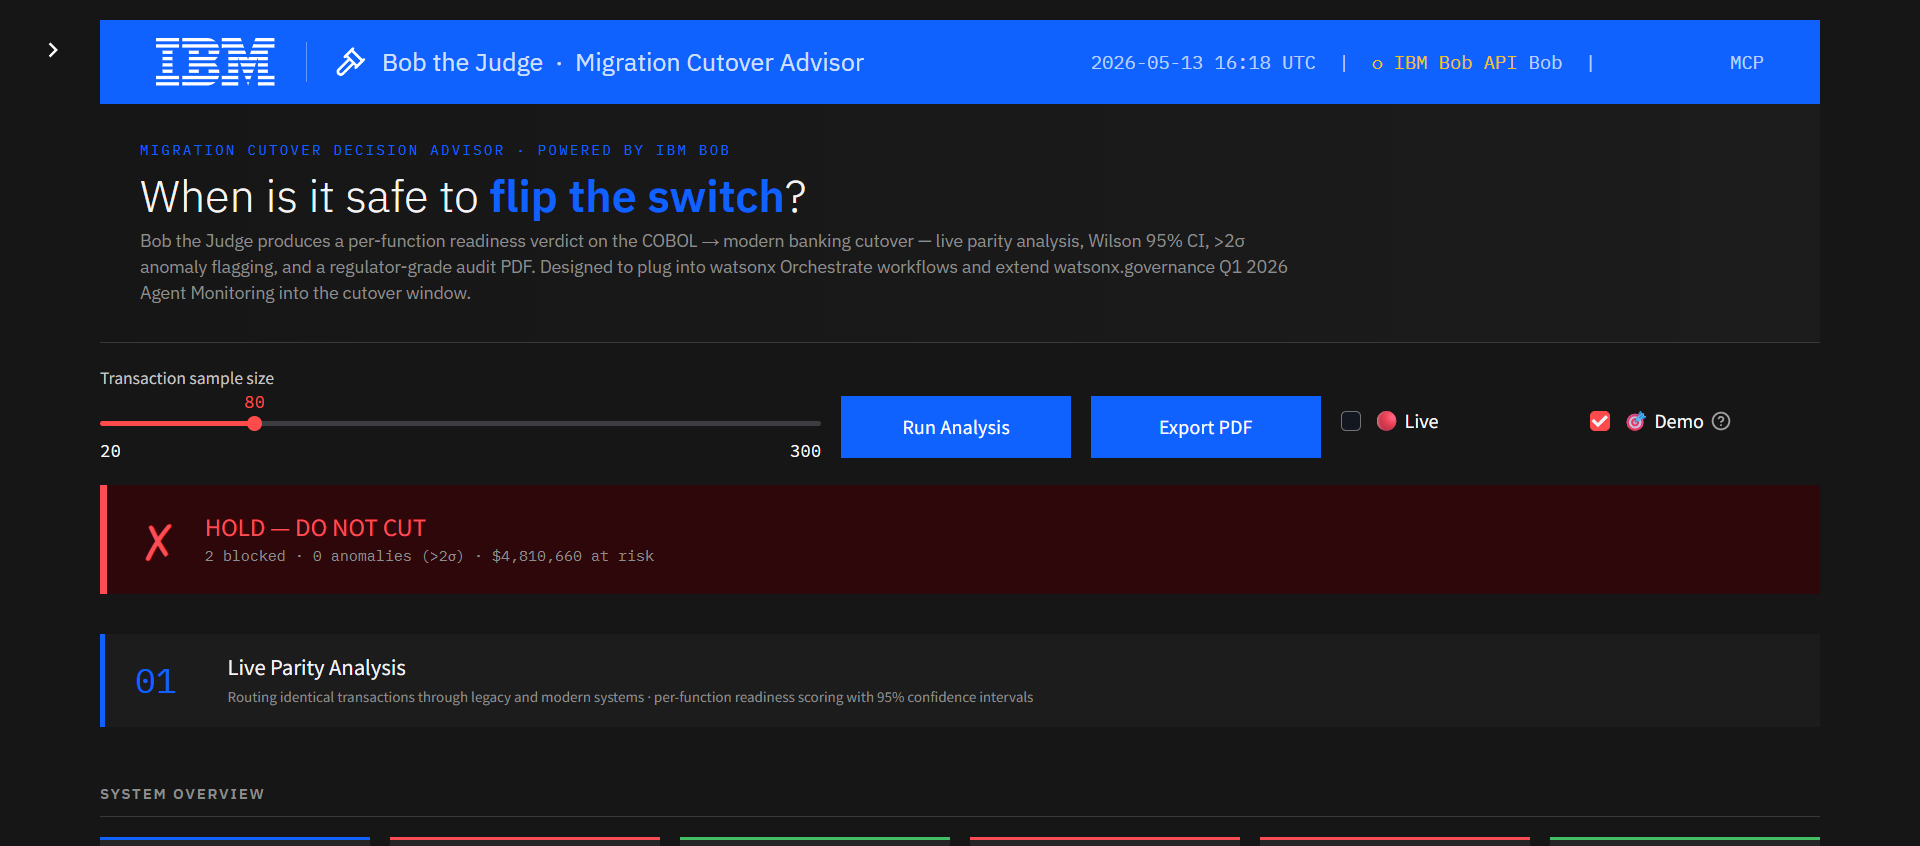
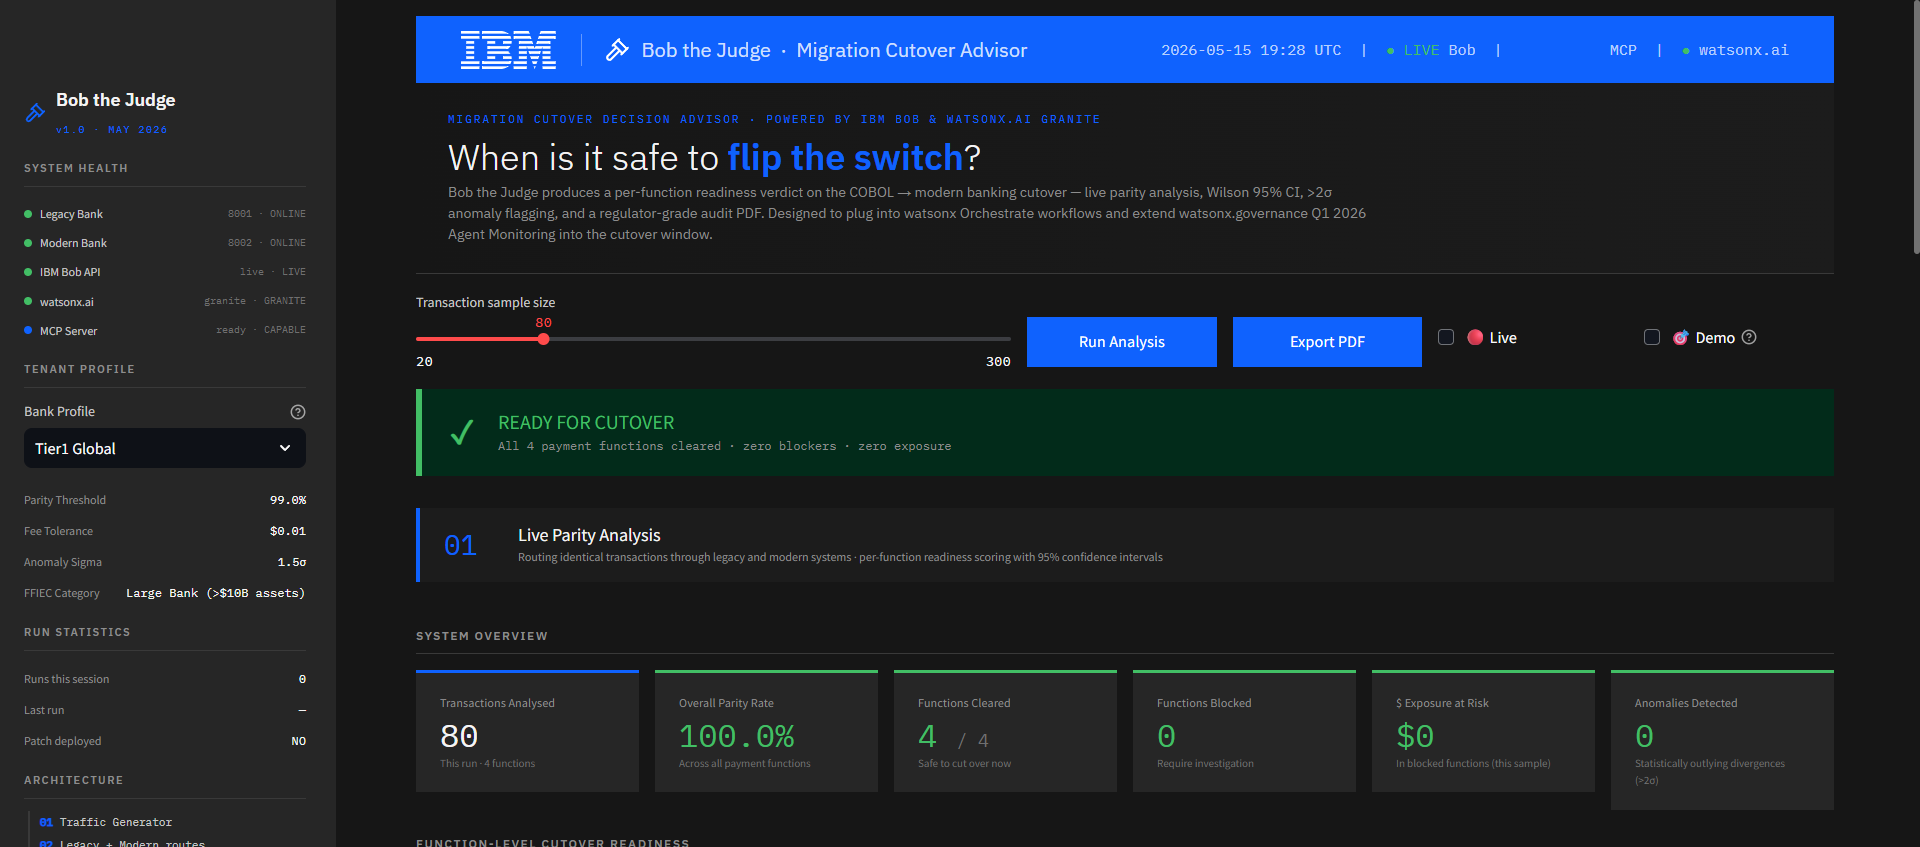
docs: refresh screenshots with watsonx.ai indicators + live Granite response

diff --git a/README.md b/README.md
@@ -15,16 +15,13 @@ End-to-end IBM stack: **IBM Bob** as the development partner (5 task sessions in
 ## Screenshots
 
 ![Hero — Dashboard ready](docs/screenshots/01-hero.png)
-*IBM Carbon Design System dashboard — IBM logo in topbar, sidebar system health, hero band.*
+*IBM Carbon Design System dashboard — topbar shows `● LIVE Bob | ● watsonx.ai`, sidebar lists IBM Bob API + watsonx.ai (Granite) + MCP Server health, plus the Tenant Profile selector (4 reference bank tiers).*
 
-![Results — HOLD: DO NOT CUT](docs/screenshots/02-results.png)
-*Live parity analysis: 2 functions blocked, $4.8M at risk. Decision banner shows HOLD — DO NOT CUT.*
+![Results — READY FOR CUTOVER with tenant-calibrated thresholds](docs/screenshots/02-results.png)
+*Live parity analysis using the Tier 1 Global profile (99% threshold, $0.01 fee tolerance, 1.5σ anomaly). 80 transactions through legacy + modern systems, per-function Wilson 95% CI, READY FOR CUTOVER verdict.*
 
-![After Patch — READY FOR CUTOVER](docs/screenshots/03-ready-cutover.png)
-*After clicking "Apply Bob's Patch & Re-Analyse" — all 4 functions cleared, zero exposure. READY FOR CUTOVER.*
-
-![Bob's Code Fix](docs/screenshots/04-bob-code-fix.png)
-*Bob (Code mode) generates the FX margin reconciliation fix — root cause + recommended patch targeting `services/modern_bank.py`.*
+![Bob's response — live IBM Granite via watsonx.ai](docs/screenshots/03-bob-granite-live.png)
+*Click `Ask Bob` → real-time call to `ibm/granite-4-h-small` on watsonx.ai. The badge `● LIVE — IBM Bob API · powered by Granite (ibm/granite-4-h-small) on watsonx.ai` plus the `WATSONX-...` session ID give full traceability. Granite produces a phased migration plan citing FFIEC, Basel III, and PSD2 by name.*
 
 ---
 